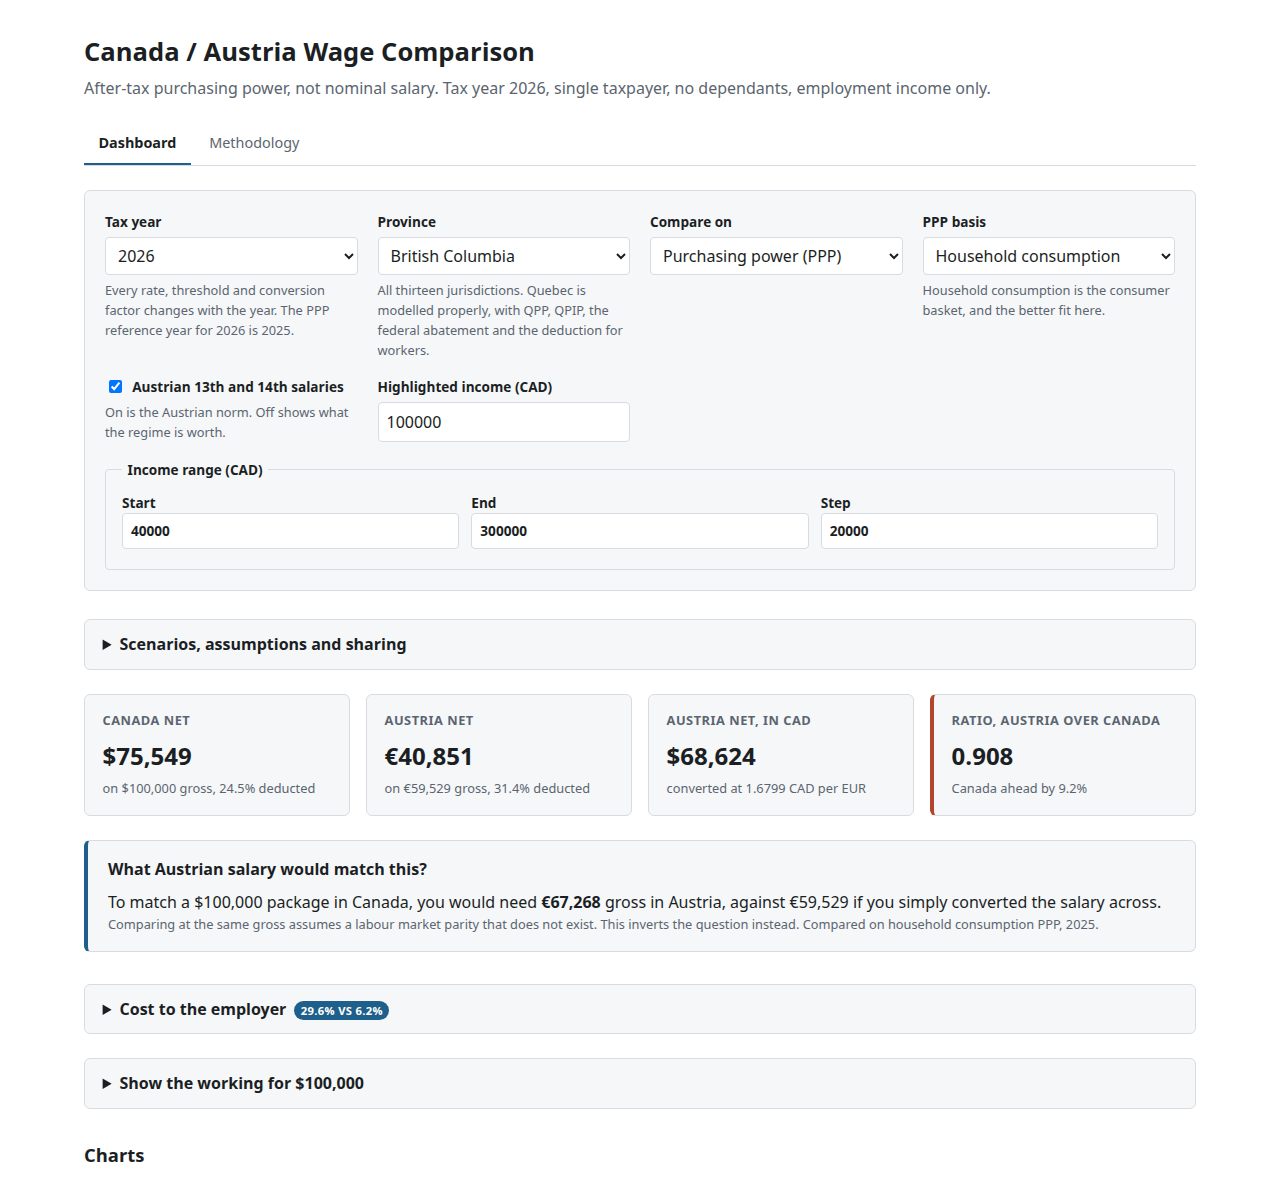
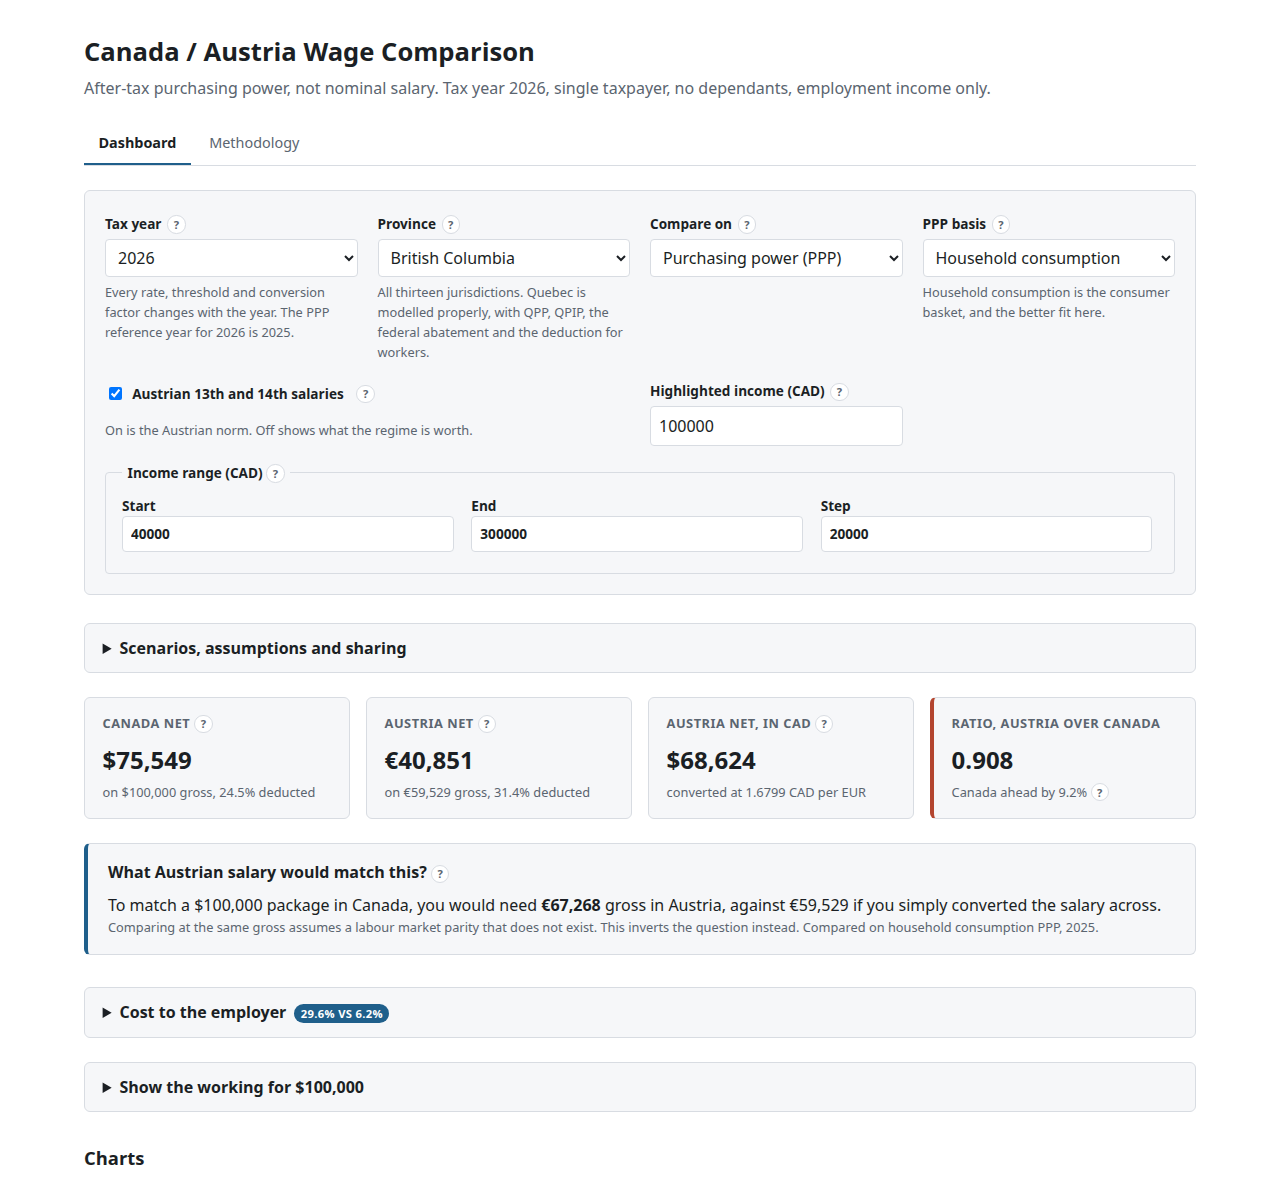
fix: three tooltip layout faults the tests could not see (#58)
Found by driving a headless browser at the dashboard with the repo's own
tools/screenshot.mjs. Every unit test passed while all three were live,
which is the point: none of them is visible from the DOM.

1. Panel text rendered in all caps. Card headings and table headers set
   text-transform: uppercase, and the panel inherited it, so two
   sentences of explanatory prose came out shouting and close to
   unreadable. The panel now resets text-transform and letter-spacing.

2. Orphaned markers. Where a label filled its column, the trigger
   wrapped onto a line of its own and read as stray punctuation. The
   checkbox group now spans two grid columns, and the cards carry one
   tip each in the heading rather than a second on the sub line. The
   terms those explained are still reachable from the table and charts.

3. The ratio card's panel covered the figure it explained. Its tip moved
   below the number rather than beside the heading.

Also regenerates the README screenshot, which still showed the UI from
before the tooltips landed.

diff --git a/src/ui/SummaryCards.tsx b/src/ui/SummaryCards.tsx
@@ -34,10 +34,15 @@ export function SummaryCards({
             Canada net <InfoTip term="canadaNet" />
           </h3>
           <p className="figure">{formatCad(result.canada.netIncome)}</p>
+          {/*
+            One tip per card, in the heading. A second on the `sub` line was
+            pushed onto a line of its own by the card's width, where a lone
+            marker reads as stray punctuation. The terms it explained are still
+            reachable from the results table and the charts.
+          */}
           <p className="sub">
             on {formatCad(result.grossIncomeCad)} gross,{' '}
-            {formatPercent(result.canadaEffectiveRate)} deducted{' '}
-            <InfoTip term="effectiveRate" />
+            {formatPercent(result.canadaEffectiveRate)} deducted
           </p>
         </article>
 
@@ -48,8 +53,7 @@ export function SummaryCards({
           <p className="figure">{formatEur(result.austria.netIncome)}</p>
           <p className="sub">
             on {formatEur(result.grossIncomeEur)} gross,{' '}
-            {formatPercent(result.austriaEffectiveRate)} deducted{' '}
-            <InfoTip term="grossIncome" />
+            {formatPercent(result.austriaEffectiveRate)} deducted
           </p>
         </article>
 
@@ -58,20 +62,22 @@ export function SummaryCards({
             Austria net, in CAD <InfoTip term="austriaNetCommon" />
           </h3>
           <p className="figure">{formatCad(result.austriaNetCommon)}</p>
-          <p className="sub">
-            converted at {result.rate.toFixed(4)} CAD per EUR{' '}
-            <InfoTip term="conversionRate" />
-          </p>
+          <p className="sub">converted at {result.rate.toFixed(4)} CAD per EUR</p>
         </article>
 
         <article
           className={`card card--ratio ${result.ratio >= 1 ? 'card--austria' : 'card--canada'}`}
         >
-          <h3>
-            Ratio, Austria over Canada <InfoTip term="ratio" align="end" />
-          </h3>
+          <h3>Ratio, Austria over Canada</h3>
           <p className="figure">{formatRatio(result.ratio)}</p>
-          <p className="sub">{describeRatio(result.ratio)}</p>
+          {/*
+            Below the figure rather than beside the heading: this heading fills
+            the card's width, and a panel opened from it covered the very number
+            the reader had just asked about.
+          */}
+          <p className="sub">
+            {describeRatio(result.ratio)} <InfoTip term="ratio" align="end" />
+          </p>
         </article>
       </section>
 

diff --git a/src/index.css b/src/index.css
@@ -132,6 +132,13 @@ a {
   line-height: 1.45;
   text-align: left;
   white-space: normal;
+  /*
+   * Reset the inherited display treatment. Card headings and table headers are
+   * uppercase and letter-spaced, which a panel of explanatory prose must not
+   * inherit: two sentences in small caps are close to unreadable.
+   */
+  text-transform: none;
+  letter-spacing: normal;
   color: var(--text);
   background: var(--bg);
   border: 1px solid var(--border);
@@ -196,12 +203,17 @@ a {
   opacity: 0.5;
 }
 
-/* Flex row so the checkbox label and its tooltip share a line. */
+/*
+ * Flex row so the checkbox label and its tooltip share a line, spanning two
+ * grid columns because the label is long enough that a single column pushed the
+ * marker onto a line of its own, where it read as stray punctuation.
+ */
 .control-group--check {
   display: flex;
   flex-wrap: wrap;
   align-items: center;
   gap: 0.45rem;
+  grid-column: span 2;
 }
 
 .control-group--check label {
